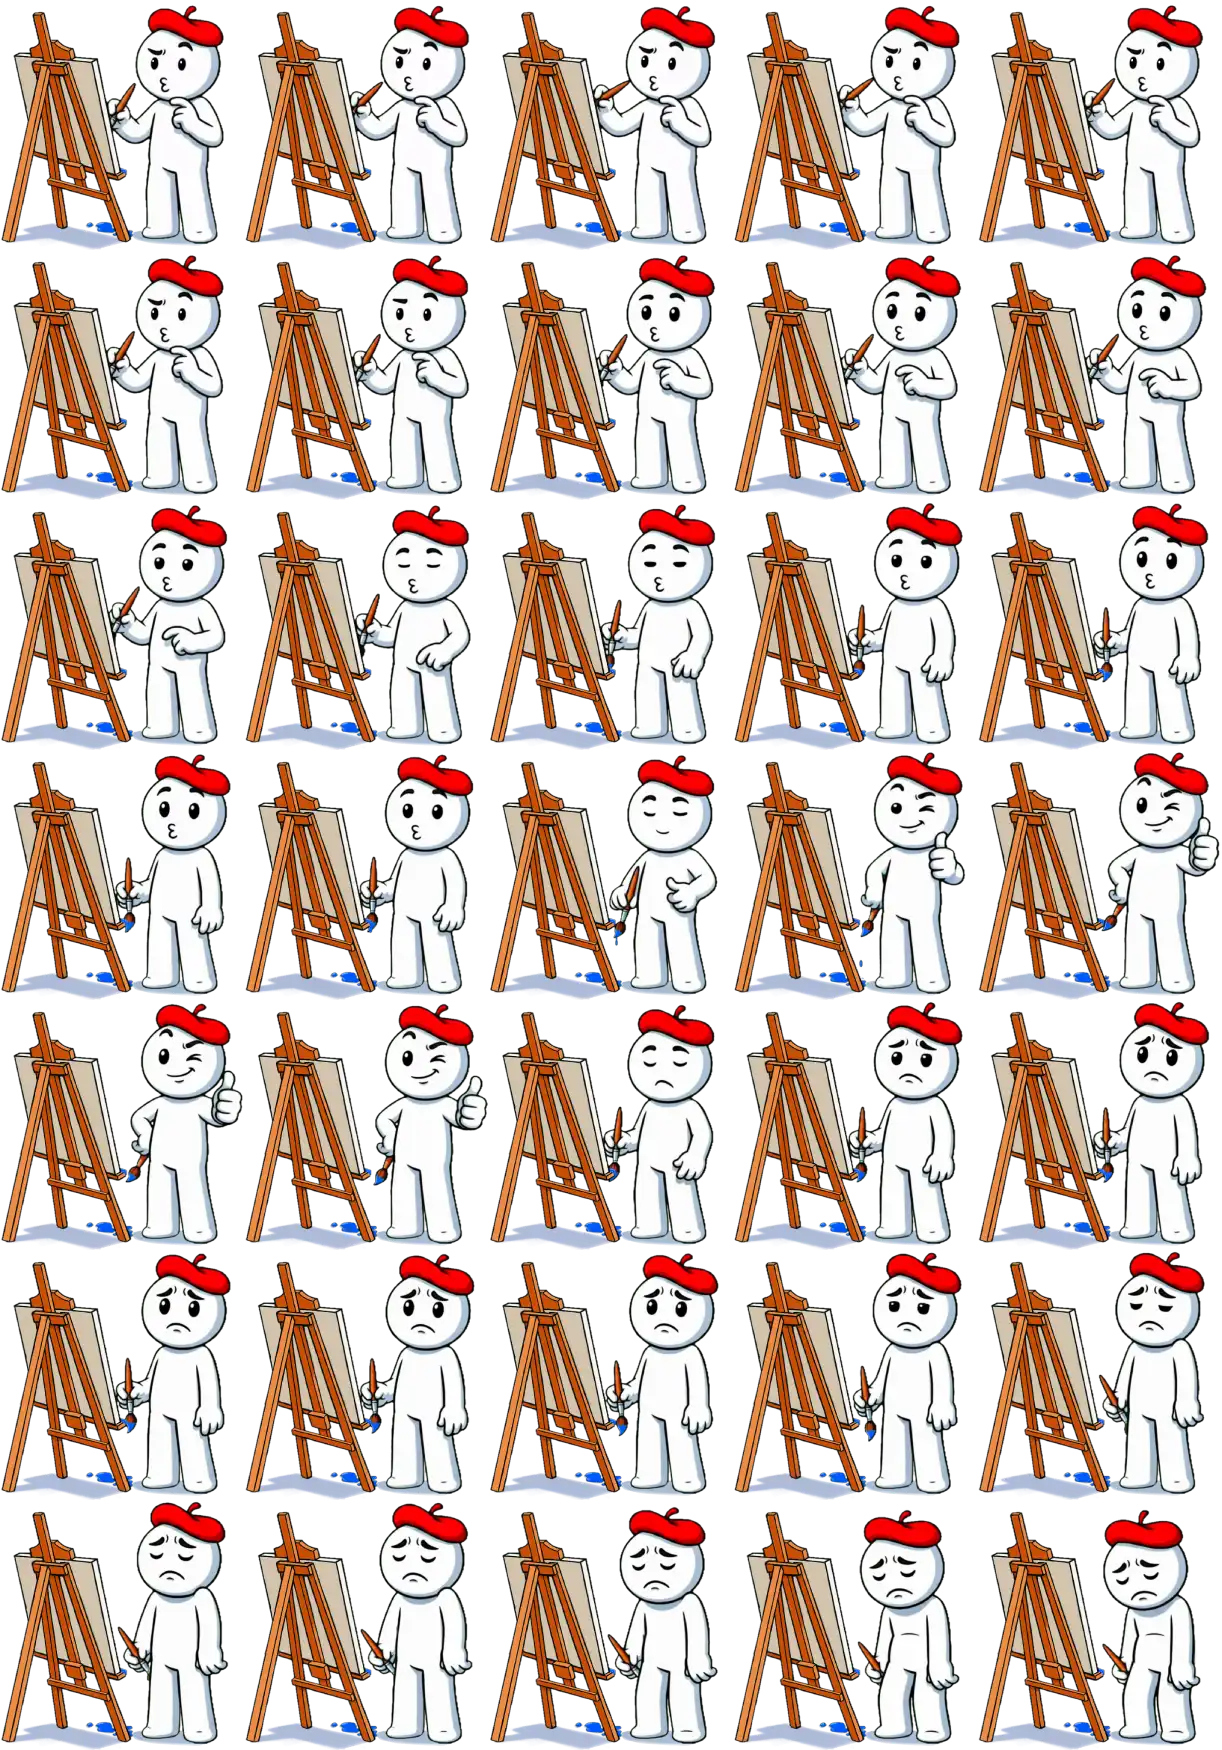
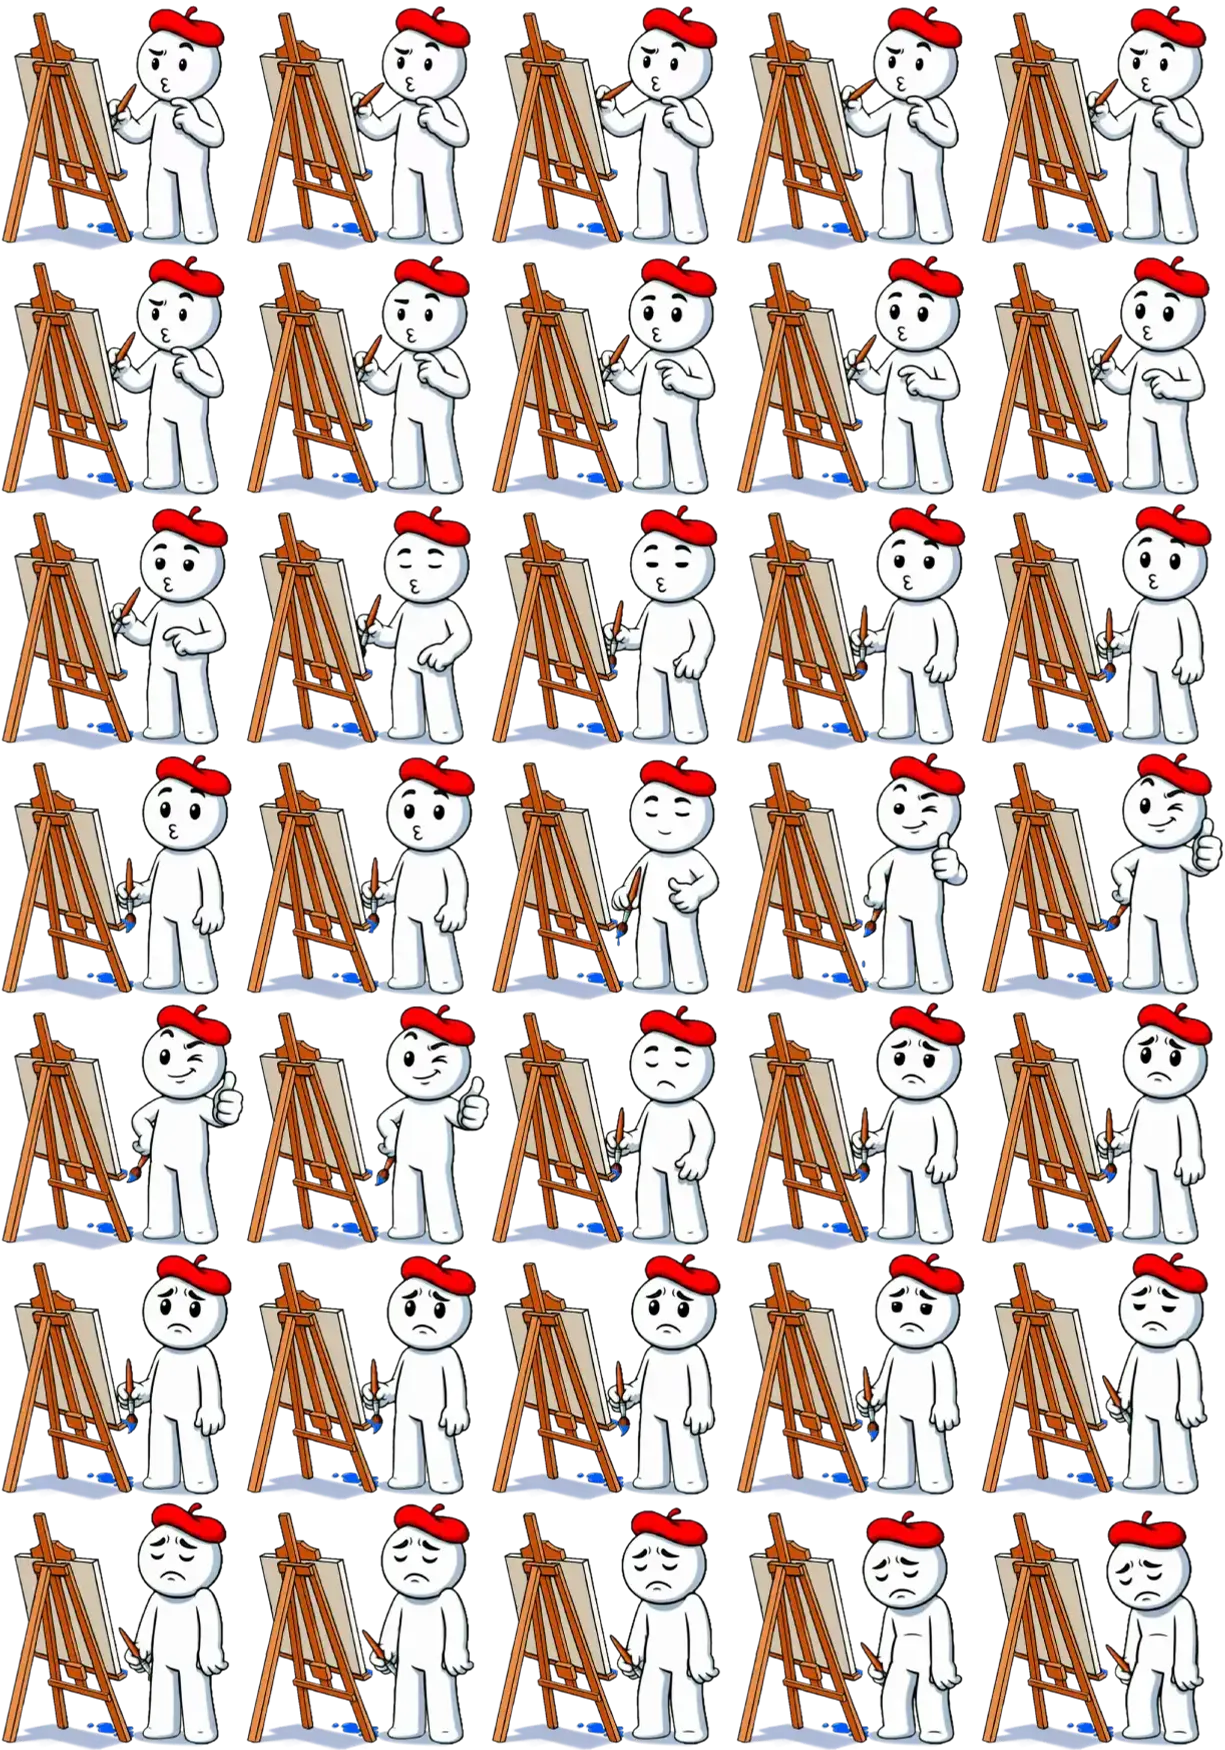
fix: update AllGuessed sprite dimensions and assets
- Remove unnecessary shadow element
- Adjust sprite aspect ratio and container dimensions for accurate rendering
- Replace source image asset

Changed region(s): [[0.0, 0.0, 1.0, 1.0]]

diff --git a/src/components/game/MiniBoardOverlay.tsx b/src/components/game/MiniBoardOverlay.tsx
@@ -287,7 +287,7 @@ export function MiniBoardOverlay({
                     ) : (
                       <AllGuessedSprite
                         mode="all_guessed"
-                        className="h-[110px] sm:h-[150px] max-w-[110px] sm:max-w-[150px]"
+                        className="w-[108px] h-[110px] sm:w-[147px] sm:h-[150px] shrink-0"
                         animationKey={activeAnimationKeyRef.current}
                       />
                     )
@@ -304,7 +304,7 @@ export function MiniBoardOverlay({
                   ) : (
                     <AllGuessedSprite
                       mode="no_one_guessed"
-                      className="h-[110px] sm:h-[150px] max-w-[110px] sm:max-w-[150px]"
+                      className="w-[108px] h-[110px] sm:w-[147px] sm:h-[150px] shrink-0"
                       animationKey={activeAnimationKeyRef.current}
                     />
                   )}

diff --git a/src/components/game/AllGuessedSprite.tsx b/src/components/game/AllGuessedSprite.tsx
@@ -244,19 +244,8 @@ export const AllGuessedSprite: React.FC<AllGuessedSpriteProps> = ({
 
   return (
     <div className={`relative flex items-center justify-center ${className}`}>
-      {/* Contact shadow */}
       <div
-        className="absolute bg-slate-800/25 rounded-[100%] blur-[0.5px] pointer-events-none z-0"
-        style={{
-          left: '20%',
-          width: '60%',
-          bottom: '0.2%',
-          height: '3.5%',
-        }}
-        aria-hidden="true"
-      />
-      <div
-        className="w-full h-full aspect-[2444/2500] bg-no-repeat pointer-events-none select-none relative z-10"
+        className="w-full h-full aspect-[245/250] bg-no-repeat pointer-events-none select-none relative z-10"
         style={{
           backgroundImage: `url('/all_guessed.webp')`,
           backgroundSize: `${COLS * 100}% ${ROWS * 100}%`,
